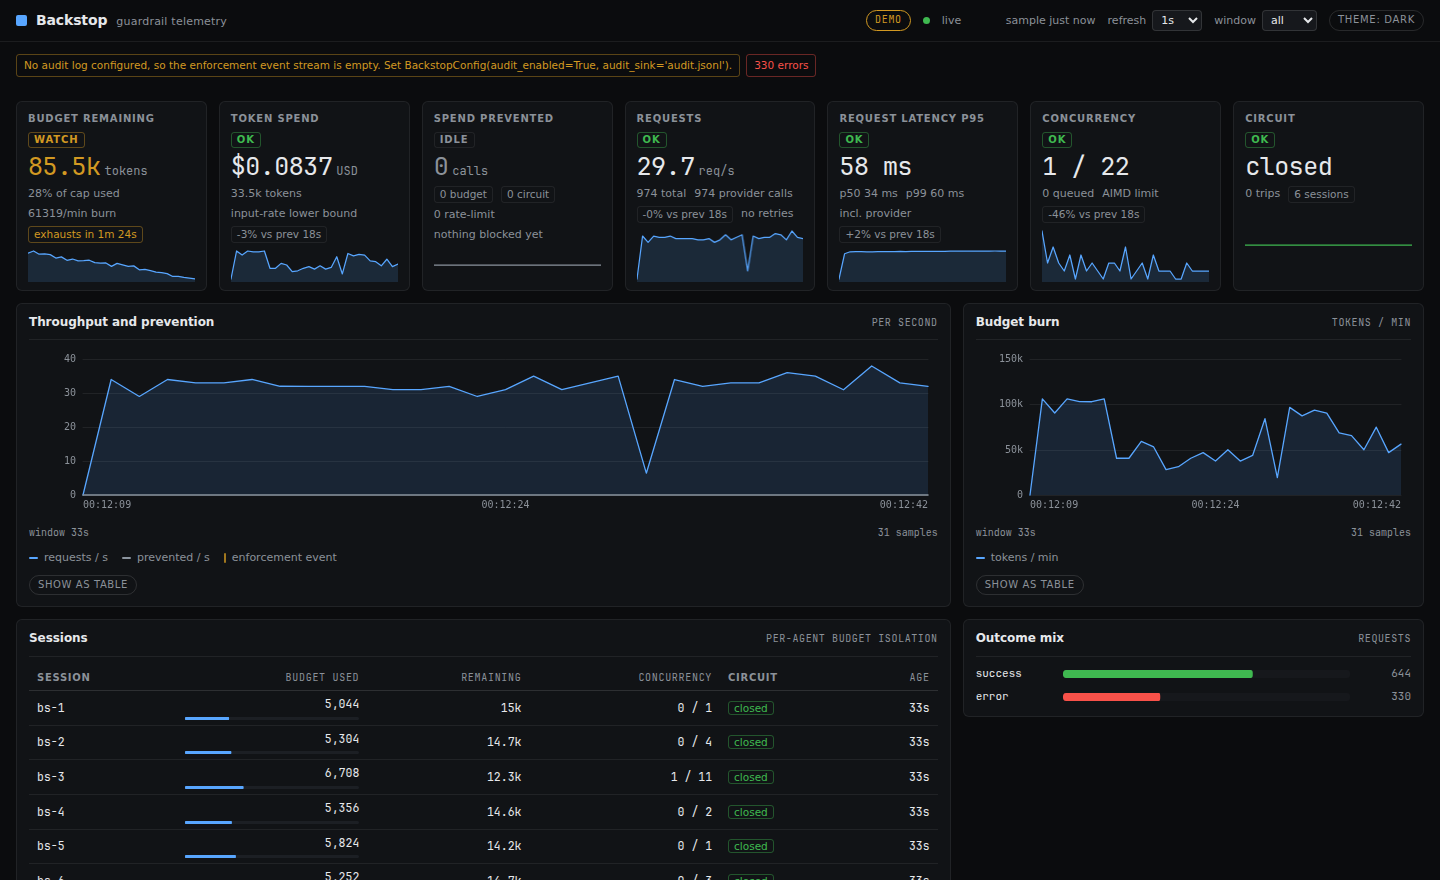
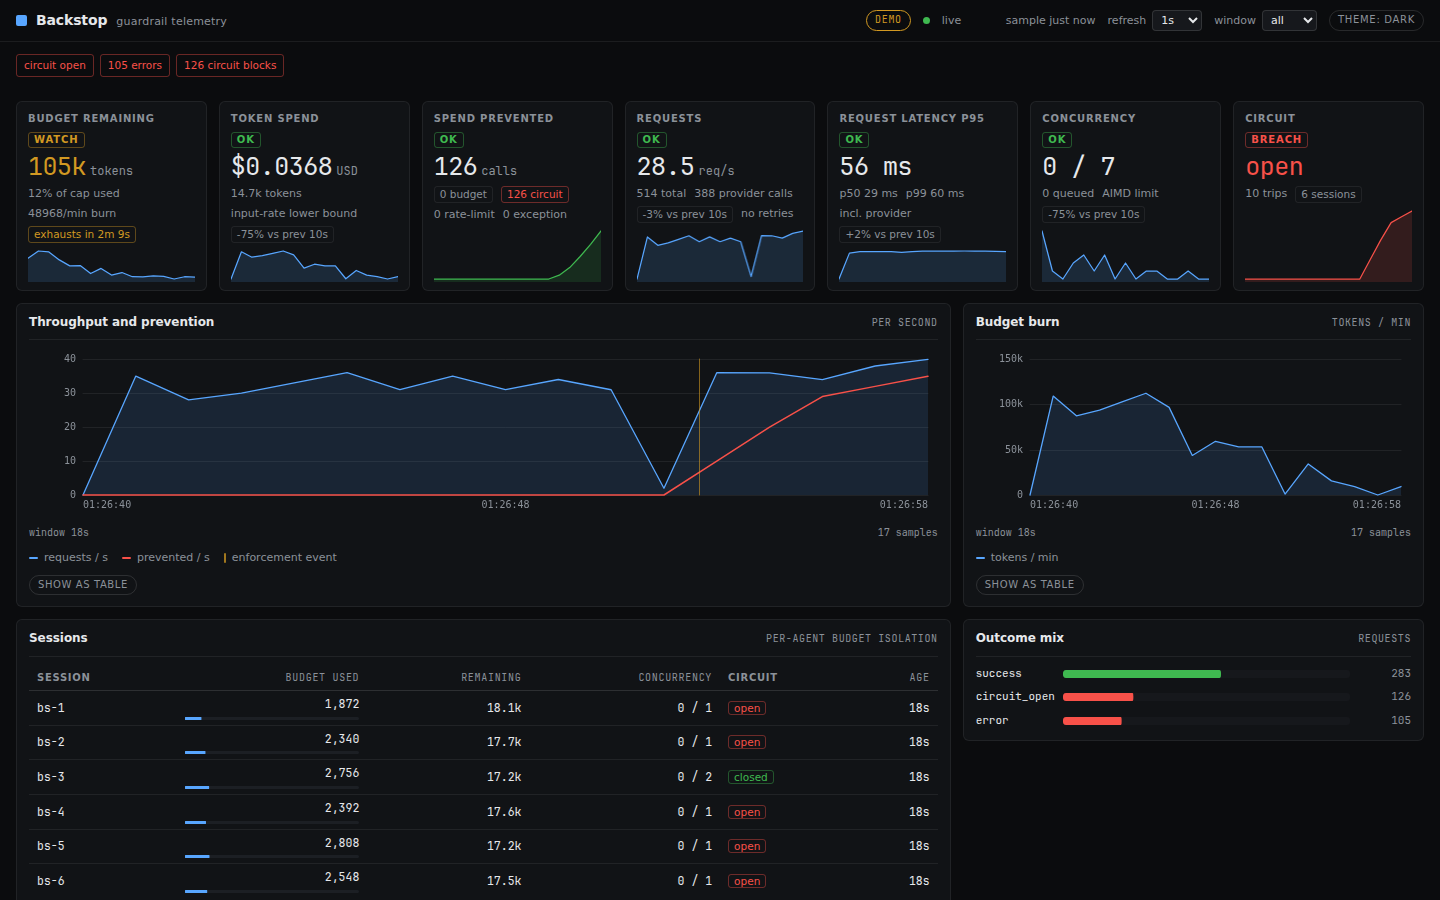
docs(readme): the signals panel and a dashboard screenshot with live enforcement

diff --git a/README.md b/README.md
@@ -199,6 +199,10 @@ backstop dashboard                           # watch a real process
 backstop dashboard --audit audit.jsonl --cost-model gpt-4o
 ```
 
+The demo is a real workload, not a picture of one: its lanes have budgets and
+a circuit breaker, its breaker trips, and the enforcement events it produces
+are the ones the dashboard shows. It writes nothing to disk.
+
 It binds loopback only. Exposing it further needs a bearer token:
 
 ```bash
@@ -225,6 +229,7 @@ sinks are live.
 | Outcome mix | Request counts by outcome, proportional |
 | Enforcement events | The audit tail: decision, reason, endpoint, priority, estimated tokens |
 | Tenants | Per-tenant request-scoped budget usage |
+| Runaway-spend signals | The four runaway-spend detectors: what fired, how far past its threshold, and in which unit |
 
 ### Reading it
 
@@ -241,6 +246,8 @@ sinks are live.
 - **Charts are readable without a mouse**: each has a text summary for
   assistive technology and a *Show as table* alternative, and the tables take
   arrow-key row navigation.
+- **Enforcement events are marked on the traffic chart**, so a guardrail action
+  lines up with the traffic it acted on.
 
 Every derived number states how it was derived, in the panel or the footer, so
 a screenshot can be argued with.
